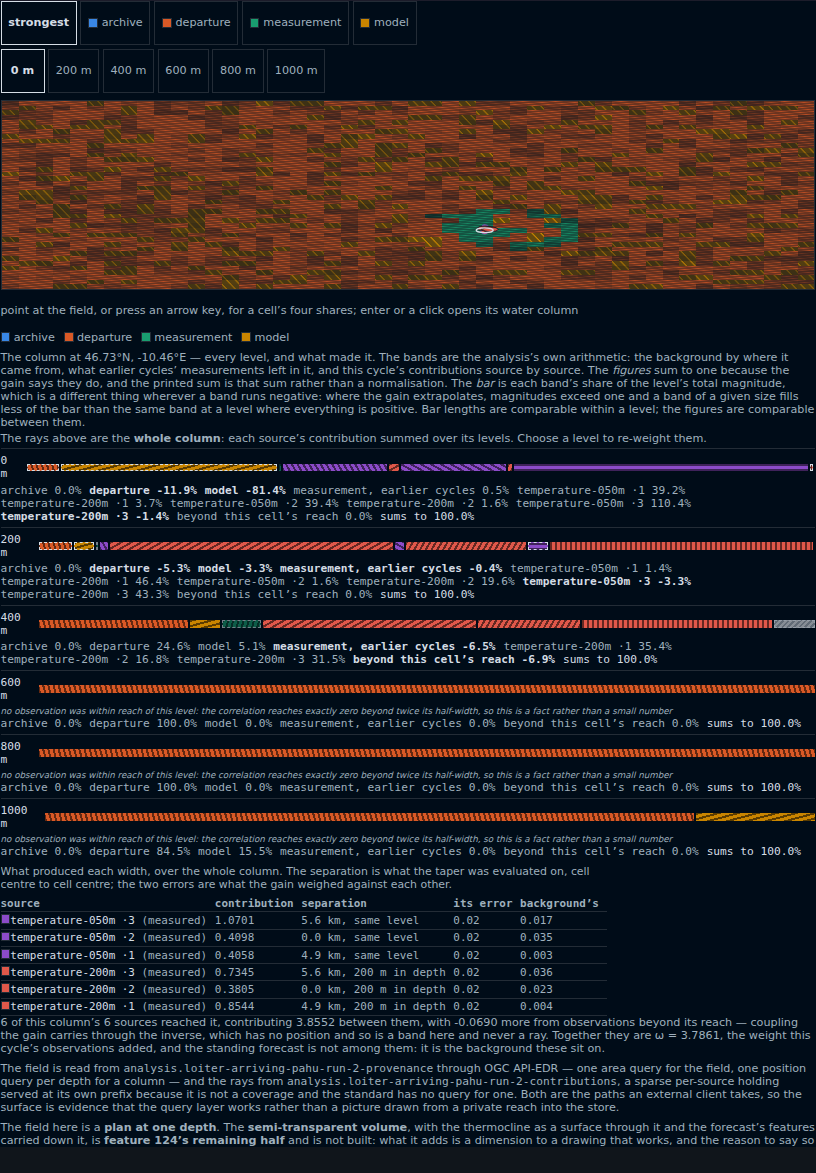
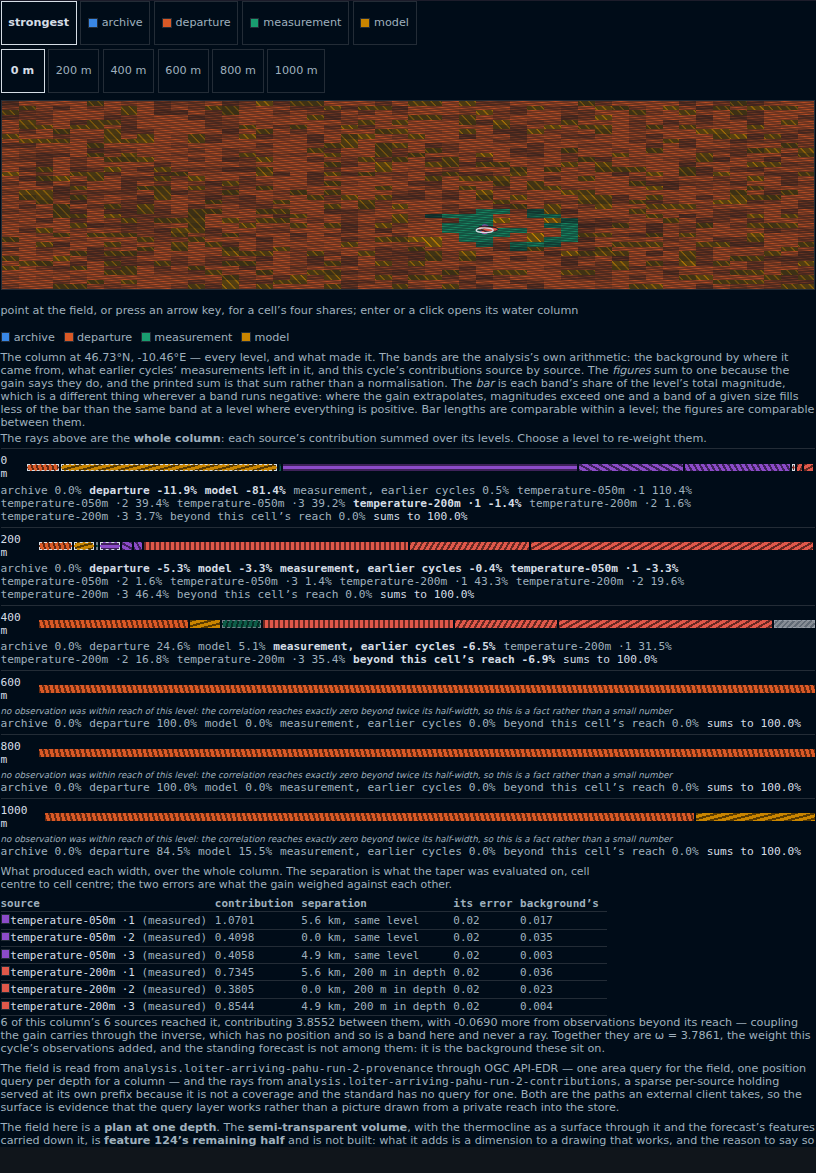
124: number the ordinal by source id, and order the bands as the table is
A twelfth review round, and the last.

T022r moved the hue off the served array's encounter order and T022s moved the
texture. The `·1`/`·2` ordinal is what both fixes handed the job of telling two
sources of one instrument apart, and it was left on encounter order — so
`temperature-050m ·2` named one cell in one column and another in the next, at
the same hue and the same dash, with nothing saying the labels had been
reassigned. That is the sentence rays.ts uses about the fault it was written to
close. Numbered by sorted source id, watched failing across two columns.

The bar and the table beneath it listed the same six sources in opposite orders,
visible in the committed capture: figures `·1, ·1, ·2, ·2, ·3, ·3` over a table
reading `·3, ·2, ·1`. Both are the declared order now, and the alt text was
re-read against the re-captured picture rather than assumed to hold.

A cell with no readable share drew as the archive, negative: the strongest-share
search seeded at -Infinity and returned it when nothing was finite. The
whole-slab guard added last round catches a field where no name resolved; this
is the per-cell case a CoverageJSON producer using null reaches with every name
resolving.

`spendAttempt`'s reset arm had no production caller — the reset was inline, so
the test asserting it held a path the panel never took, in a function extracted
because the policy could not be reached through the panel.

T014 said both things at once: ticked over a requirement spec.md calls
[…]

diff --git a/app/src/panels/forecast/ColumnProvenance.tsx b/app/src/panels/forecast/ColumnProvenance.tsx
@@ -547,13 +547,24 @@ export function ColumnProvenance({
     [slab],
   );
 
+  /**
+   * The strongest share at a cell, or **nothing** where none of the four is a number.
+   *
+   * It used to seed with `SOURCES[0]` at `-Infinity` and return that when nothing was finite, so a
+   * cell with no readable share drew as the *archive*, hatched, at 0.15 opacity — and with the
+   * negative class, because `-Infinity < 0`. The shell asserting a provenance for a cell nothing
+   * was served for, while the readout beneath printed `archive NaN%`: two surfaces disagreeing on
+   * one input. The whole-slab guard added for the same fault catches a field in which no *name*
+   * resolved; this is the per-cell case, which a CoverageJSON producer using `null` for unsampled
+   * cells — the standard's own idiom — reaches with every name resolving.
+   */
   const dominantAt = useCallback(
-    (row: number, col: number): { key: SourceKey; value: number } => {
+    (row: number, col: number): { key: SourceKey; value: number } | undefined => {
       const shares = sharesAt(row, col);
-      let best: { key: SourceKey; value: number } = { key: SOURCES[0].key, value: -Infinity };
+      let best: { key: SourceKey; value: number } | undefined;
       for (const source of SOURCES) {
         const value = shares[source.key];
-        if (Number.isFinite(value) && value > best.value) best = { key: source.key, value };
+        if (Number.isFinite(value) && (!best || value > best.value)) best = { key: source.key, value };
       }
       return best;
     },
@@ -733,8 +744,11 @@ export function ColumnProvenance({
               drawn.cols.map((sourceCol, col) => {
                 const shares = sharesAt(sourceRow, sourceCol);
                 const shown = showing === 'dominant' ? dominantAt(sourceRow, sourceCol) : { key: showing, value: shares[showing] };
-                const source = shareOf(shown.key);
-                const magnitude = Number.isFinite(shown.value) ? Math.min(Math.abs(shown.value), 1) : 0;
+                // A cell with nothing readable in it is drawn as the ground it sits on and marked
+                // unserved — not as the first share at nought, which is what a `-Infinity` seed
+                // made it, complete with the negative class.
+                const source = shown ? shareOf(shown.key) : undefined;
+                const magnitude = shown && Number.isFinite(shown.value) ? Math.min(Math.abs(shown.value), 1) : 0;
                 const isHere = cursor?.row === row && cursor?.col === col;
                 return (
                   <rect
@@ -746,9 +760,9 @@ export function ColumnProvenance({
                     // The share is carried by opacity against the console's own ground, which
                     // is monotonic in lightness by construction — a sequential ramp that needs
                     // no second hue and cannot invert.
-                    fill={showing === 'dominant' ? `url(#${source.pattern})` : source.hue}
-                    fillOpacity={showing === 'dominant' ? Math.max(magnitude, 0.15) : magnitude}
-                    className={`share-cell${isHere ? ' is-here' : ''}${shown.value < 0 ? ' is-negative' : ''}`}
+                    fill={source ? (showing === 'dominant' ? `url(#${source.pattern})` : source.hue) : 'none'}
+                    fillOpacity={source ? (showing === 'dominant' ? Math.max(magnitude, 0.15) : magnitude) : 0}
+                    className={`share-cell${isHere ? ' is-here' : ''}${shown && shown.value < 0 ? ' is-negative' : ''}${source ? '' : ' is-unserved'}`}
                     // Where this cell is, from the served axes: the readout beneath states it
                     // for the one under the cursor, and this states it for every one, so the
                     // drawing can be checked against the holding cell by cell.

diff --git a/app/src/panels/forecast/rays.ts b/app/src/panels/forecast/rays.ts
@@ -316,11 +316,21 @@ export function paletteSlots(sources: readonly AnalysisContributionsSource[]): {
 export function sourceLabels(sources: readonly AnalysisContributionsSource[]): readonly string[] {
   const seen = new Map<string, number>();
   for (const source of sources) seen.set(source.datastream_id, (seen.get(source.datastream_id) ?? 0) + 1);
-  const used = new Map<string, number>();
+  // **Numbered by sorted `source_id`, not by position in the served array.** The array is built by
+  // first encounter while walking *this column's* levels, so the ordinal was a fact about which
+  // column was asked for: `temperature-050m ·2` named one cell in one column and a different cell
+  // in the next, at the same hue and the same dash, with nothing saying the labels had been
+  // reassigned. That is the fault the hue and the texture were both moved off encounter order to
+  // fix — and the ordinal is what those fixes handed the job of telling two sources of one
+  // instrument apart, so it was the one place it still mattered.
+  const order = [...sources].map((source) => source.source_id).sort();
   return sources.map((source) => {
     if ((seen.get(source.datastream_id) ?? 0) < 2) return source.datastream_id;
-    const ordinal = (used.get(source.datastream_id) ?? 0) + 1;
-    used.set(source.datastream_id, ordinal);
+    const ordinal =
+      order.filter((id) => {
+        const other = sources.find((candidate) => candidate.source_id === id);
+        return other?.datastream_id === source.datastream_id && id <= source.source_id;
+      }).length;
     return `${source.datastream_id} ·${ordinal}`;
   });
 }

diff --git a/app/src/panels/forecast/rays.test.ts b/app/src/panels/forecast/rays.test.ts
@@ -496,3 +496,22 @@ describe('a served index the source table does not carry', () => {
     expect(set.reachedCount).toBe(3);
   });
 });
+
+describe('the ordinal that tells two sources of one instrument apart', () => {
+  it('is the same in two columns that carry the same two sources', () => {
+    // **The fault the hue and the texture were both moved off encounter order to fix, surviving
+    // in the label those fixes handed the job to.** `contributions.ts` builds `sources` by first
+    // encounter while walking this column's levels, so the ordinal was a fact about which column
+    // was asked for: `·2` named one cell in one column and another in the next, at the same hue
+    // and the same dash, with nothing saying the labels had been reassigned.
+    const a = [source('temperature-050m.cell-11', -11.4, 'temperature-050m'), source('temperature-050m.cell-12', -11.0, 'temperature-050m')];
+    const b = [source('temperature-050m.cell-12', -11.0, 'temperature-050m'), source('temperature-050m.cell-11', -11.4, 'temperature-050m')];
+    const labelOf = (sources: AnalysisContributionsSource[], id: string) =>
+      sourceLabels(sources)[sources.findIndex((entry) => entry.source_id === id)];
+    for (const id of ['temperature-050m.cell-11', 'temperature-050m.cell-12']) {
+      expect(labelOf(a, id), `${id} was renumbered between columns`).toBe(labelOf(b, id));
+    }
+    expect(labelOf(a, 'temperature-050m.cell-11')).toBe('temperature-050m ·1');
+    expect(labelOf(a, 'temperature-050m.cell-12')).toBe('temperature-050m ·2');
+  });
+});

diff --git a/app/src/panels/forecast/Profile.tsx b/app/src/panels/forecast/Profile.tsx
@@ -164,7 +164,16 @@ function bandsFor(
   });
 
   if (served) {
-    for (const entry of served.contributions) {
+    // **Ordered by source id, like the table five elements below.** These walked
+    // `served.contributions` in the level's own array order — first encounter — so the bar's
+    // figures ran `·1, ·1, ·2, ·2, ·3, ·3` while the FR-130 table under it, sorted by id, ran
+    // `·3, ·2, ·1` for each instrument. Same screen, same six sources, opposite direction, and
+    // `rays.ts` opens by arguing that a set ordered by what the holding listed first is stable
+    // only by luck. The committed capture shows both orders at once.
+    const ordered = [...served.contributions].sort((left, right) =>
+      (document?.sources[left.source]?.source_id ?? '').localeCompare(document?.sources[right.source]?.source_id ?? ''),
+    );
+    for (const entry of ordered) {
       const source = document?.sources[entry.source];
       if (!source) continue;
       const hue = instrumentAt(slots.hue[entry.source] ?? 0).hue;

diff --git a/app/src/panels/forecast/ForecastPanel.tsx b/app/src/panels/forecast/ForecastPanel.tsx
@@ -499,7 +499,11 @@ export function ForecastPanel({ params }: PanelProps) {
           return;
         }
         gridForRef.current = named;
-        attemptsRef.current = 0;
+        // Through the policy, not beside it. The reset was written inline, so `spendAttempt`'s
+        // `'answered'` arm had no production caller and the test asserting it held a path the
+        // panel never took — in a function extracted *because* the policy could not be reached
+        // through the panel.
+        attemptsRef.current = spendAttempt(attemptsRef.current, 'answered');
         setGridGaveUp(false);
         // **The same object where the axis is the same, because the identity is a dependency.**
         // `columnGridOf` returns a fresh literal, and `ColumnProvenance`'s slab effect depends on

diff --git a/app/src/panels/forecast/forecast.css b/app/src/panels/forecast/forecast.css
@@ -756,3 +756,13 @@
   opacity: 0.7;
   stroke-width: 1.2;
 }
+
+/* A cell with no readable share is drawn as the ground it sits on. It used to draw as the first
+   share, hatched, with the negative class, because the strongest-share search seeded at -Infinity
+   and returned that when nothing was finite — the shell asserting a provenance for a cell nothing
+   was served for. Marked so the cursor and the keyboard still reach it. */
+.share-cell.is-unserved {
+  stroke: var(--shell-dim);
+  stroke-width: 0.03;
+  stroke-dasharray: 0.1 0.1;
+}

diff --git a/specs/124-forecast-illustration/tasks.md b/specs/124-forecast-illustration/tasks.md
@@ -192,7 +192,11 @@ drawing in it.
       proportional *within the drawn set*, normalised by the widest, because a contribution is a
       gain coefficient rather than a share and T002's measured magnitudes would otherwise draw
       one ray as a slab and the rest as hairlines.
-- [ ] T014 Spatial sources placed where they are; non-spatial sources docked at the margin in
+- [ ] T014 **The docking half is declined; the placement half is built.** One box cannot carry
+      two answers, and this one said `[x]` over a requirement `spec.md` cites as outstanding and
+      then `[ ]` over a body beginning "*Built.*" — both spellings were wrong in one direction or
+      the other. Left unticked because the task as written is not done: spatial sources placed
+      where they are; non-spatial sources docked at the margin in
       positions stable across selections, from a declared order rather than from whatever the
       holding happened to list first. The remainder (T002) has no position and is not a ray:
       it is stated in the region, as coupling from beyond the column's reach.
@@ -971,6 +975,56 @@ the part worth recording, because each was a sentence asserting a property the c
       analyses over a window a test can afford to drive. A fourth spelling would be an assertion
       that looks like coverage and is not, which is what this feature has spent ten rounds
       removing. It is said in the test and in the pull request instead.
+
+- [x] T022w **A twelfth round, and the last of them: the `·1`/`·2` ordinal was still assigned by
+      encounter order.**
+
+      T022r moved the hue off the served array's encounter order and T022s moved the texture; the
+      *ordinal* is what both of those fixes handed the job of telling two sources of one instrument
+      apart, and it was left on encounter order. `contributions.ts` builds `sources` by first
+      encounter while walking this column's levels, so `temperature-050m ·2` named one cell in one
+      column and a different cell in the next, at the same hue and the same dash, with nothing
+      saying the labels had been reassigned — which is the sentence `rays.ts` uses about the fault
+      it was written to close. Numbered by sorted `source_id` now, watched failing across two
+      columns carrying the same two sources.
+
+      **And the bar and the table beneath it listed the same six sources in opposite orders**, which
+      the committed capture shows: the figures ran `·1, ·1, ·2, ·2, ·3, ·3` and the FR-130 table
+      five elements below, sorted by id, ran `·3, ·2, ·1`. `rays.ts` opens by arguing that a set
+      ordered by what the holding listed first is stable only by luck, and the bar a reader looks
+      at first was ordered exactly that way. Both are the declared order now, and the alt text was
+      re-read against the re-captured picture rather than assumed to still hold.
+
+      **A cell with no readable share drew as the archive, negative.** The strongest-share search
+      seeded at `-Infinity` and returned that when nothing was finite, so such a cell drew hatched
+      as the first share at 0.15 opacity with the negative class, while the readout beneath printed
+      `archive NaN%`. The whole-slab guard added last round catches a field in which no *name*
+      resolved; this is the per-cell case, which a CoverageJSON producer using `null` for unsampled
+      cells reaches with every name resolving.
+
+      **`spendAttempt`'s reset arm had no production caller.** The reset was written inline beside
+      it, so the test asserting `'answered'` held a path the panel never took — in a function
+      extracted *because* the policy could not be reached through the panel.
+
+      And T014 said both things at once: `[x]` over a requirement `spec.md` calls outstanding, then
+      `[ ]` over a body beginning "*Built.*". It is two tasks in one box — placement, which is
+      built and captured, and the docking, which is declined — and the line says so now.
+
+## What this branch leaves undone, and why
+
+      Written here rather than only in the pull request, because the reason is the part that cannot
+      be reconstructed later.
+
+      - **The axis retry's once-per-cycle half is unheld.** Three spellings of a bound were tried
+        and all three passed with the mechanism removed: the panel is announced too few analyses
+        over a window a test can afford to drive. A fourth would be an assertion that looks like
+        coverage and is not.
+      - **`modelledRaysIn`, `noSuchLevel`, `gridGaveUp` and the share-collision refusals are
+        unreachable against today's analyst**, which serves one variable and marks every source
+        `measured`. They are Principle XI machinery — the seam may be remote — and each is tested
+        against a planted document rather than a run.
+      - **Q-01 is open** (T030): whether the palette survives greyscale *as composited* rather than
+        as declared is a question a capture answers and a comment cannot.
 
 - [ ] T023 The ensemble spread ahead, along the planned route where one exists, widening
       against tau. Outside the holding's time axis the region says so rather than implying

diff --git a/site/docs/blog/posts/the-weights-were-there-and-thrown-away.md b/site/docs/blog/posts/the-weights-were-there-and-thrown-away.md
@@ -48,8 +48,10 @@ sampling; a pale ring marks the picked column and the six instrument-sources tha
 marked immediately beside it, because the platform's two instruments sample the cells it is
 crossing and every source is within a cell or two of the column. Beneath the map a depth profile, one stacked bar of hatched bands per level
 with its figures printed underneath. At 0 m: archive 0.0%, departure −11.9%, model −81.4%,
-measurement from earlier cycles 0.5%, then this cycle's six sources at 39.2%, 3.7%, 39.4%, 1.6%,
-110.4% and −1.4%, and beyond this cell's reach 0.0% — summing to 100.0%. At 600 m, 800 m and
+measurement from earlier cycles 0.5%, then this cycle's six sources — the 50 m instrument's three
+casts at 110.4%, 39.4% and 39.2%, the 200 m instrument's three at −1.4%, 1.6% and 3.7% — and
+beyond this cell's reach 0.0%, summing to 100.0%. The bands run in the same order as the
+table at the foot. At 600 m, 800 m and
 1000 m an italic line states that no observation was within reach of that level, because the
 correlation reaches exactly zero beyond twice its half-width; the 600 m and 800 m bars are the
 departure forecast alone at 100.0%, and the 1000 m bar is departure 84.5% beside model 15.5%. At the foot a table of what produced each width: each source with its
